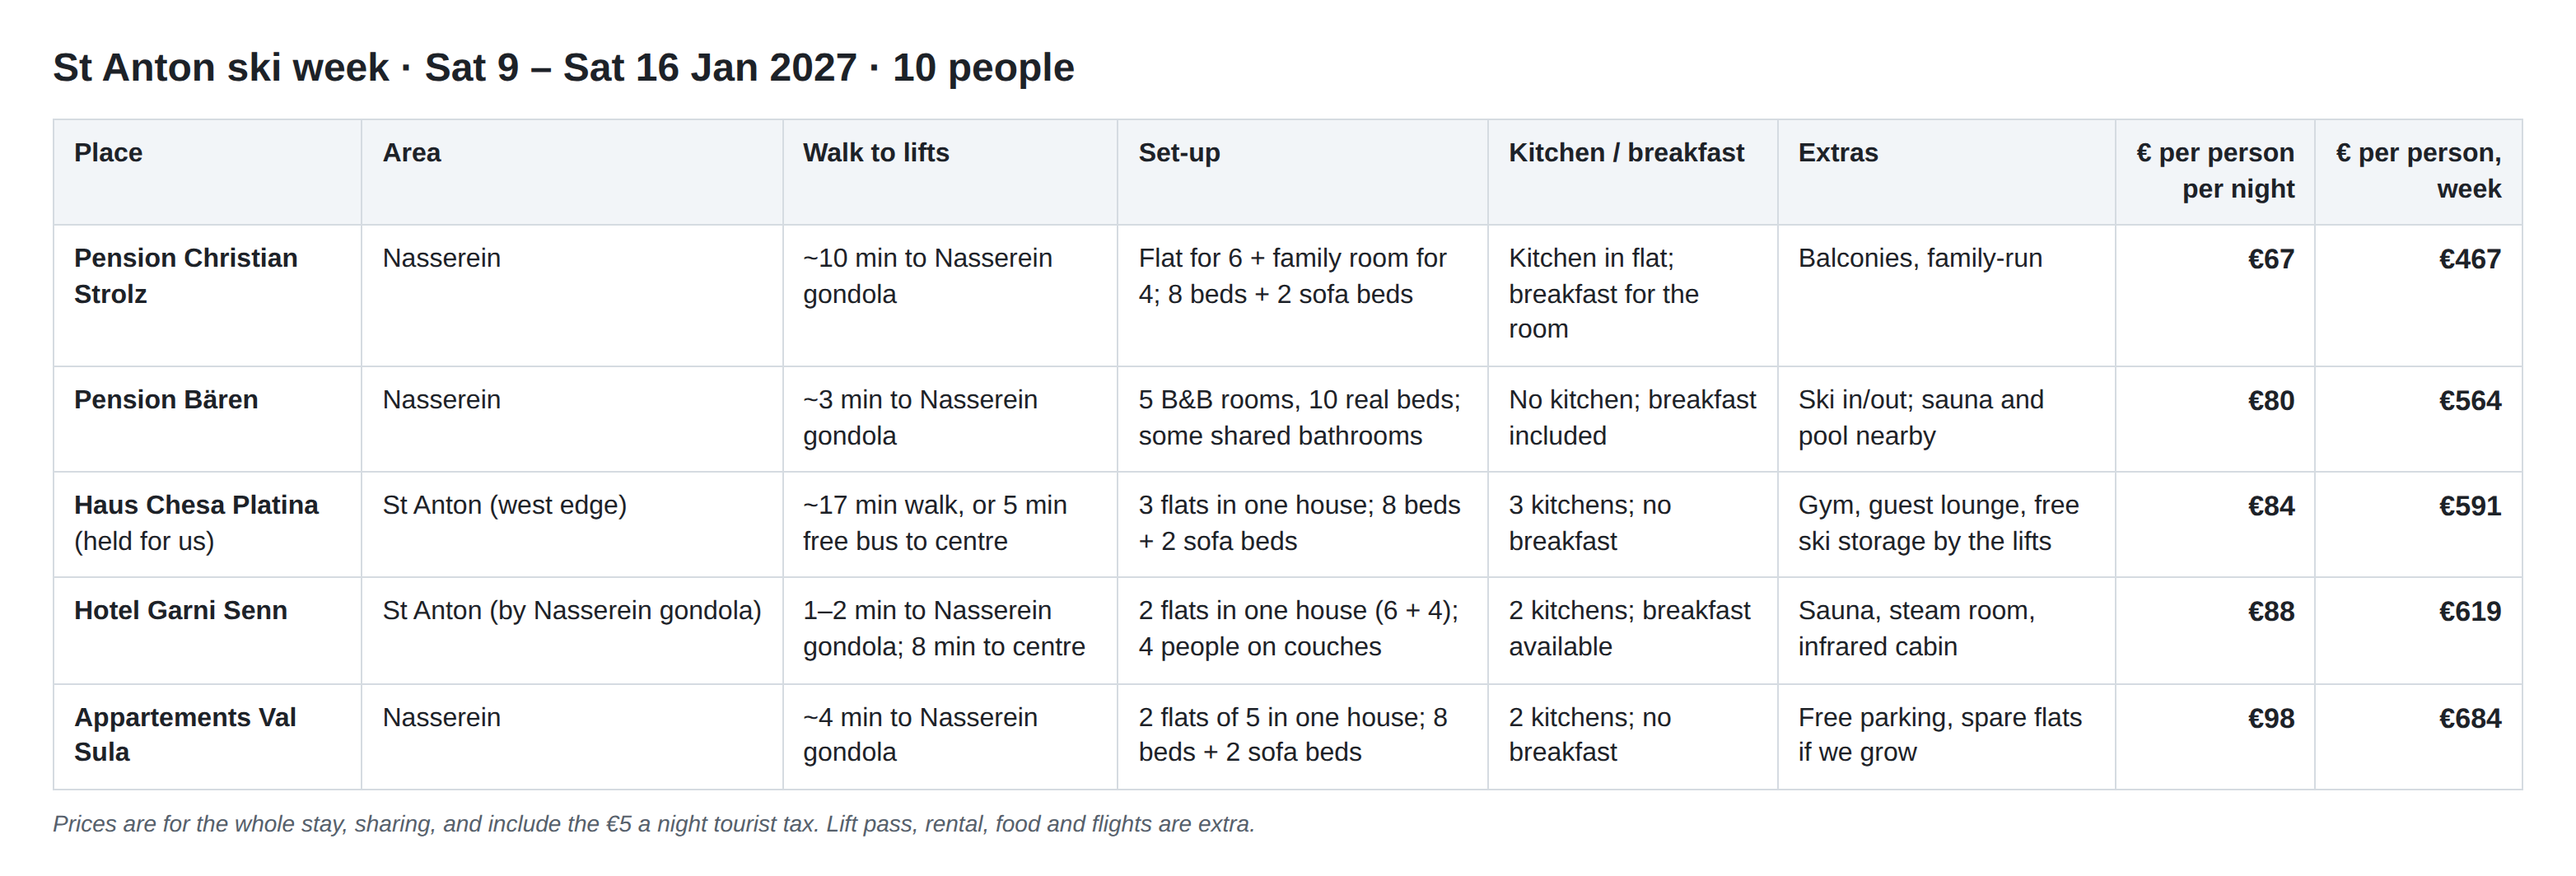
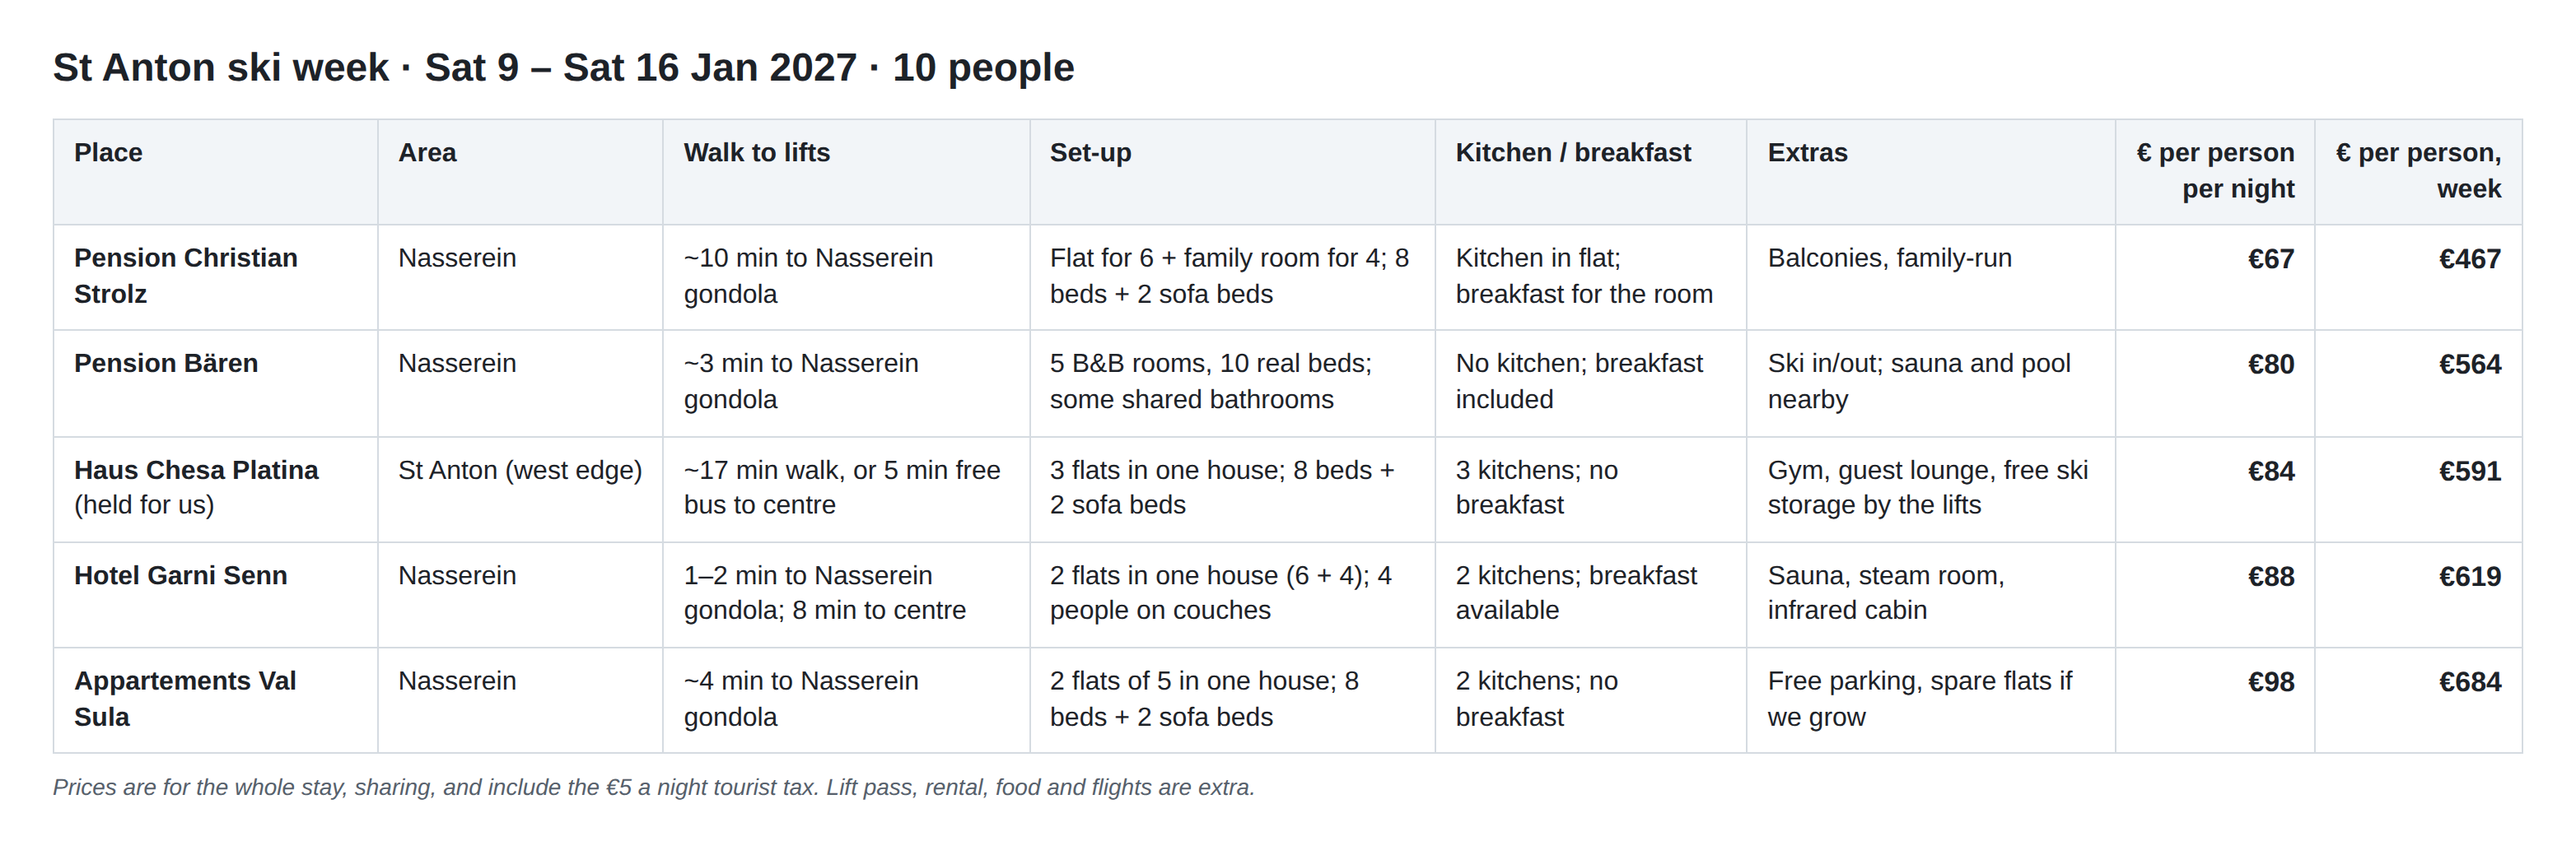
St Anton: label Senn as Nasserein in the shortlist image
Claude-Session: https://claude.ai/code/session_01WfeQmzx7nGz5CQA3vPDZ5H

diff --git a/ski-st-anton/table.html b/ski-st-anton/table.html
@@ -17,7 +17,7 @@ p{font-size:14px;color:#56606b;margin:12px 0 0;font-style:italic;}
 <tr><td><b>Pension Christian Strolz</b></td><td class="area">Nasserein</td><td>~10 min to Nasserein gondola</td><td>Flat for 6 + family room for 4; 8 beds + 2 sofa beds</td><td>Kitchen in flat; breakfast for the room</td><td>Balconies, family-run</td><td class="num"><b>€67</b></td><td class="num"><b>€467</b></td></tr>
 <tr><td><b>Pension Bären</b></td><td class="area">Nasserein</td><td>~3 min to Nasserein gondola</td><td>5 B&amp;B rooms, 10 real beds; some shared bathrooms</td><td>No kitchen; breakfast included</td><td>Ski in/out; sauna and pool nearby</td><td class="num"><b>€80</b></td><td class="num"><b>€564</b></td></tr>
 <tr><td><b>Haus Chesa Platina</b> (held for us)</td><td class="area">St Anton (west edge)</td><td>~17 min walk, or 5 min free bus to centre</td><td>3 flats in one house; 8 beds + 2 sofa beds</td><td>3 kitchens; no breakfast</td><td>Gym, guest lounge, free ski storage by the lifts</td><td class="num"><b>€84</b></td><td class="num"><b>€591</b></td></tr>
-<tr><td><b>Hotel Garni Senn</b></td><td class="area">St Anton (by Nasserein gondola)</td><td>1–2 min to Nasserein gondola; 8 min to centre</td><td>2 flats in one house (6 + 4); 4 people on couches</td><td>2 kitchens; breakfast available</td><td>Sauna, steam room, infrared cabin</td><td class="num"><b>€88</b></td><td class="num"><b>€619</b></td></tr>
+<tr><td><b>Hotel Garni Senn</b></td><td class="area">Nasserein</td><td>1–2 min to Nasserein gondola; 8 min to centre</td><td>2 flats in one house (6 + 4); 4 people on couches</td><td>2 kitchens; breakfast available</td><td>Sauna, steam room, infrared cabin</td><td class="num"><b>€88</b></td><td class="num"><b>€619</b></td></tr>
 <tr><td><b>Appartements Val Sula</b></td><td class="area">Nasserein</td><td>~4 min to Nasserein gondola</td><td>2 flats of 5 in one house; 8 beds + 2 sofa beds</td><td>2 kitchens; no breakfast</td><td>Free parking, spare flats if we grow</td><td class="num"><b>€98</b></td><td class="num"><b>€684</b></td></tr>
 </tbody></table>
 <p>Prices are for the whole stay, sharing, and include the €5 a night tourist tax. Lift pass, rental, food and flights are extra.</p>
